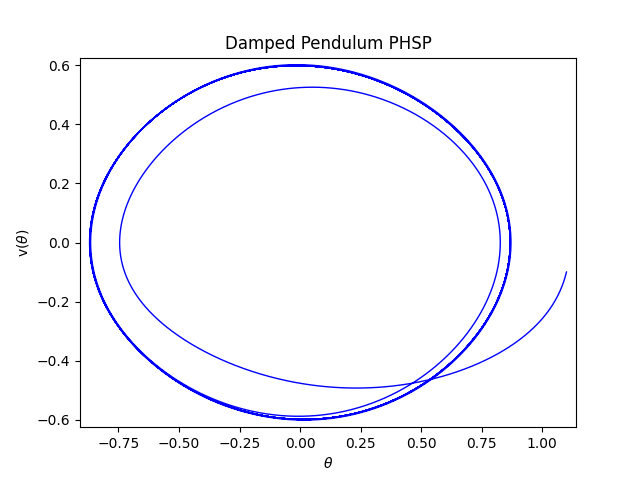
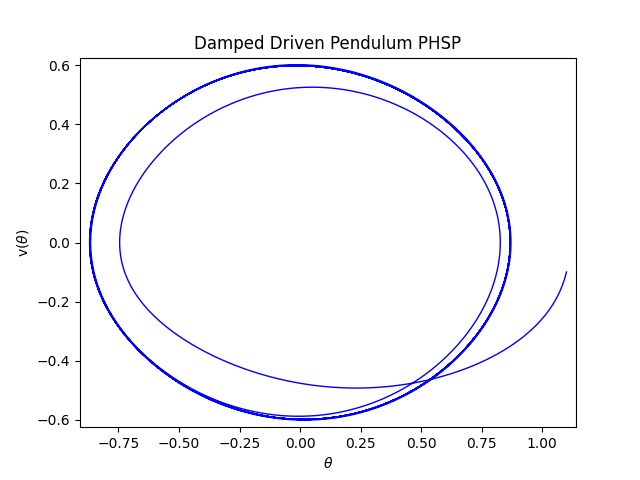
cleaned Q1

Changed region(s): [[0.2812, 0.0625, 0.7188, 0.125]]

diff --git a/Assignment1/Question1/solution.py b/Assignment1/Question1/solution.py
@@ -25,11 +25,14 @@ from solver import solver
 N = 10000
 t0 = 0
 tf = 100
+alpha = 0.5
+omega = 2/3
 
 # Part A
-# alpha = 0.5, A = 0, omega = 2/3
+# A = 0
 u = [1.1, -0.1]
-theta_arr, v_arr = solver(u, rk4, N, t0, tf, 0.5, 0., 2/3)
+A = 0
+theta_arr, v_arr = solver(u, rk4, N, t0, tf, alpha, A, omega)
 plt1 = plt_creator(
     title="Damped Pendulum PHSP", 
     xLabel=r'$\theta$', 
@@ -42,120 +45,35 @@ plt1.savefig("Results/partA_PHSP.png")
 
 # Part B
 u = [1.1, -0.1]
+A_arr = [0.5, 0.9, 1.07, 1.1]
 
-# alpha = 0.5, A = 0.5, omega = 2/3
-theta_arr, v_arr = solver(u, rk4, N, t0, tf, 0.5, 0.5, 2/3)
-plt1 = plt_creator(
-    title="Damped Pendulum PHSP", 
-    xLabel=r'$\theta$', 
-    yLabel=r'v($\theta$)', 
-    xMargin=0.02, 
-    yMargin=0.02
-)
-plt1.plot(theta_arr, v_arr, linewidth=1, color= blue)
-plt1.savefig("Results/partB1_PHSP.png")
-
-
-# alpha = 0.5, A = 0.9, omega = 2/3
-theta_arr, v_arr = solver(u, rk4, N, t0, tf, 0.5, 0.9, 2/3)
-plt1 = plt_creator(
-    title="Damped Pendulum PHSP", 
-    xLabel=r'$\theta$', 
-    yLabel=r'v($\theta$)', 
-    xMargin=0.02, 
-    yMargin=0.02
-)
-plt1.plot(theta_arr, v_arr, linewidth=1, color= blue)
-plt1.savefig("Results/partB2_PHSP.png")
-
-
-# alpha = 0.5, A = 1.07, omega = 2/3
-theta_arr, v_arr = solver(u, rk4, N, t0, tf, 0.5, 1.07, 2/3)
-plt1 = plt_creator(
-    title="Damped Pendulum PHSP", 
-    xLabel=r'$\theta$', 
-    yLabel=r'v($\theta$)', 
-    xMargin=0.02, 
-    yMargin=0.02
-)
-plt1.plot(theta_arr, v_arr, linewidth=1, color= blue)
-plt1.savefig("Results/partB3_PHSP.png")
-
-# alpha = 0.5, A = 1.1, omega = 2/3
-theta_arr, v_arr = solver(u, rk4, N, t0, tf, 0.5, 1.1, 2/3)
-plt1 = plt_creator(
-    title="Damped Pendulum PHSP", 
-    xLabel=r'$\theta$', 
-    yLabel=r'v($\theta$)', 
-    xMargin=0.02, 
-    yMargin=0.02
-)
-plt1.plot(theta_arr, v_arr, linewidth=1, color= blue)
-plt1.savefig("Results/partB4_PHSP.png")
+for i in range(4):
+    theta_arr, v_arr = solver(u, rk4, N, t0, tf, alpha, A_arr[i], omega)
+    plt1 = plt_creator(
+        title="Damped Driven Pendulum PHSP", 
+        xLabel=r'$\theta$', 
+        yLabel=r'v($\theta$)', 
+        xMargin=0.02, 
+        yMargin=0.02
+    )
+    plt1.plot(theta_arr, v_arr, linewidth=1, color= blue)
+    plt1.savefig("Results/partB%d_PHSP.png"%(i+1))
 
 
 # Part C
 u1 = [1.1,-0.1]
 u2 = [1.09, -0.1]
 
-# alpha = 0.5, A = 0.5, omega = 2/3
-theta_arr_1, v_arr_1 = solver(u1, rk4, N, t0, tf, 0.5, 0.5, 2/3)
-theta_arr_2, v_arr_2 = solver(u2, rk4, N, t0, tf, 0.5, 0.5, 2/3)
+for i in range(4):
+    theta_arr_1, v_arr_1 = solver(u1, rk4, N, t0, tf, alpha, A_arr[i], omega)
+    theta_arr_2, v_arr_2 = solver(u2, rk4, N, t0, tf, alpha, A_arr[i], omega)
 
-plt1 = plt_creator(
-    title=r'Damped Driven Pendulum $\Delta\theta$ vs t', 
-    xLabel=r't',
-    yLabel=r'$\Delta\theta$', 
-    xMargin=0.02, 
-    yMargin=0.02
-)
-plt1.plot(np.linspace(t0, tf, N+1), theta_arr_1-theta_arr_2, linewidth=1, color= blue)
-plt1.savefig("Results/partC1_Dtht.png")
-
-
-# alpha = 0.5, A = 0.9, omega = 2/3
-theta_arr_1, v_arr_1 = solver(u1, rk4, N, t0, tf, 0.5, 0.9, 2/3)
-theta_arr_2, v_arr_2 = solver(u2, rk4, N, t0, tf, 0.5, 0.9, 2/3)
-
-plt1 = plt_creator(
-    title=r'Damped Driven Pendulum $\Delta\theta$ vs t', 
-    xLabel=r't',
-    yLabel=r'$\Delta\theta$', 
-    xMargin=0.02, 
-    yMargin=0.02
-)
-
-plt1.plot(np.linspace(t0, tf, N+1), theta_arr_1-theta_arr_2, linewidth=1, color= blue)
-plt1.savefig("Results/partC2_Dtht.png")
-
-
-# alpha = 0.5, A = 1.07, omega = 2/3
-theta_arr_1, v_arr_1 = solver(u1, rk4, N, t0, tf, 0.5, 1.07, 2/3)
-theta_arr_2, v_arr_2 = solver(u2, rk4, N, t0, tf, 0.5, 1.07, 2/3)
-
-plt1 = plt_creator(
-    title=r'Damped Driven Pendulum $\Delta\theta$ vs t', 
-    xLabel=r't',
-    yLabel=r'$\Delta\theta$', 
-    xMargin=0.02, 
-    yMargin=0.02
-)
-
-plt1.plot(np.linspace(t0, tf, N+1), theta_arr_1-theta_arr_2, linewidth=1, color= blue)
-plt1.savefig("Results/partC3_Dtht.png")
-
-
-# alpha = 0.5, A = 1.1, omega = 2/3
-theta_arr_1, v_arr_1 = solver(u1, rk4, N, t0, tf, 0.5, 1.1, 2/3)
-theta_arr_2, v_arr_2 = solver(u2, rk4, N, t0, tf, 0.5, 1.1, 2/3)
-
-plt1 = plt_creator(
-    title=r'Damped Driven Pendulum $\Delta\theta$ vs t', 
-    xLabel=r't',
-    yLabel=r'$\Delta\theta$', 
-    xMargin=0.02, 
-    yMargin=0.02
-)
-
-plt1.plot(np.linspace(t0, tf, N+1), theta_arr_1-theta_arr_2, linewidth=1, color= blue)
-plt1.savefig("Results/partC4_Dtht.png")
+    plt1 = plt_creator(
+        title=r'Damped Driven Pendulum $\Delta\theta$ vs t', 
+        xLabel=r't',
+        yLabel=r'$\Delta\theta$', 
+        xMargin=0.02, 
+        yMargin=0.02
+    )
+    plt1.plot(np.linspace(t0, tf, N+1), theta_arr_1-theta_arr_2, linewidth=1, color= blue)
+    plt1.savefig("Results/partC%d_Dtht.png" %(i+1))
